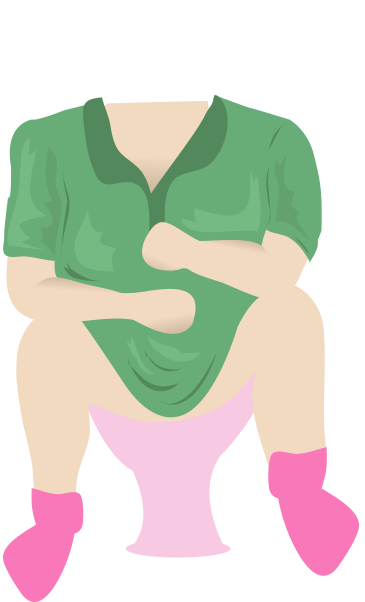
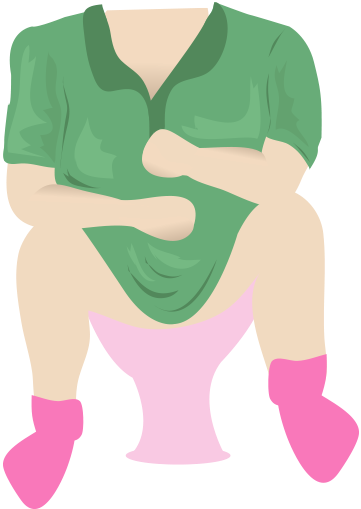
Changed sprites and position for poo man

diff --git a/source/scripts/states/PooScene.js b/source/scripts/states/PooScene.js
@@ -6,16 +6,7 @@ export default class PooScene extends ChaptersManager {
         this.game.load.image('toiletBarCorrect', 'assets/images/pooMan/toiletBarCorrect.png');
         this.game.load.image('toiletBarBad', 'assets/images/pooMan/toiletBarBad.png');
         this.game.load.image('toiletMarker', 'assets/images/pooMan/toiletMarker.png');
-        this.game.load.image('hair', 'assets/images/pooMan/02.png');
-        this.game.load.image('face', 'assets/images/pooMan/03.png');
-        this.game.load.image('eyelashes', 'assets/images/pooMan/04.png');
-        this.game.load.image('leftEye', 'assets/images/pooMan/05.png');
-        this.game.load.image('underEyeSkin', 'assets/images/pooMan/06.png');
-        this.game.load.image('rightEye', 'assets/images/pooMan/07.png');
-        this.game.load.image('leftEyeBrow', 'assets/images/pooMan/08.png');
-        this.game.load.image('rightEyeBrow', 'assets/images/pooMan/09.png');
-        this.game.load.image('moustache', 'assets/images/pooMan/10.png');
-        this.game.load.image('lips', 'assets/images/pooMan/11.png');
+        this.game.load.spritesheet('head', 'assets/images/pooMan/head.png', 165, 210);
         //this.game.load.spritesheet('explosion', 'assets/images/explosion.png', 46.25, 37.5, 62);
     }
 
@@ -31,110 +22,58 @@ export default class PooScene extends ChaptersManager {
     setPooMan() {
         this.game.add.sprite(0, 0, 'background');
         this.pooManGroup = this.game.add.group();
-        this.pooManGroup.create(0, 0, 'pooMan');
+        this.pooMan = this.game.add.sprite(0, 150, 'pooMan');
+        this.pooManGroup.add(this.pooMan);
 
         this.setNormalHead();
         this.setRedHead();
 
         this.pooManGroup.add(this.pooManHeadNormal);
         this.pooManGroup.add(this.pooManHeadRed);
+
+        this.pooManHeadRed.x = 155;
+        this.pooManHeadRed.y = 78;
+        this.pooManHeadNormal.x = 155;
+        this.pooManHeadNormal.y = 78;
+
+        var headHeightAboveBody = this.pooManHeadNormal.y - this.pooMan.y;
+        var groupHeight = headHeightAboveBody + this.pooMan.height;
+
+        this.pooManGroup.x = this.game.world.width / 2 - this.pooMan.width;
+        this.pooManGroup.y = this.game.world.height / 2 - groupHeight / 2;
     }
 
     setRedHead() {
         this.pooManHeadRed = this.game.add.group();
         this.pooManHeadRed.alpha = 0;
 
-        var face = this.game.add.sprite(0, 0, 'face');
-        face = this.setHeadSprites(face, true);
-        this.pooManHeadRed.add(face);
+        var faceOnly = this.game.add.sprite(0, 0, 'head', 0);
+        faceOnly = this.setHeadSprites(faceOnly, true);
+        this.pooManHeadRed.add(faceOnly);
 
-        var hair = this.game.add.sprite(0, 0, 'hair');
-        hair = this.setHeadSprites(hair, true);
-        this.pooManHeadRed.add(hair);
-
-        var leftEyeBrow = this.game.add.sprite(0, 0, 'leftEyeBrow');
-        leftEyeBrow = this.setHeadSprites(leftEyeBrow, false);
-        this.pooManHeadRed.add(leftEyeBrow);
-
-        var rightEyeBrow = this.game.add.sprite(0, 0, 'rightEyeBrow');
-        rightEyeBrow = this.setHeadSprites(rightEyeBrow, false);
-        this.pooManHeadRed.add(rightEyeBrow);
-
-        var eyelashes = this.game.add.sprite(0, 0, 'eyelashes');
-        eyelashes = this.setHeadSprites(eyelashes, false);
-        this.pooManHeadRed.add(eyelashes);
-
-        var leftEye = this.game.add.sprite(0, 0, 'leftEye');
-        leftEye = this.setHeadSprites(leftEye, false);
-        this.pooManHeadRed.add(leftEye);
-
-        var rightEye = this.game.add.sprite(0, 0, 'rightEye');
-        rightEye = this.setHeadSprites(rightEye, false);
-        this.pooManHeadRed.add(rightEye);
-
-        var underEyeSkin = this.game.add.sprite(0, 0, 'underEyeSkin');
-        underEyeSkin = this.setHeadSprites(underEyeSkin, true);
-        this.pooManHeadRed.add(underEyeSkin);
-
-        var moustache = this.game.add.sprite(0, 0, 'moustache');
-        moustache = this.setHeadSprites(moustache, true);
-        this.pooManHeadRed.add(moustache);
-
-        var lips = this.game.add.sprite(0, 0, 'lips');
-        lips = this.setHeadSprites(lips, true);
-        this.pooManHeadRed.add(lips);
+        var allHair = this.game.add.sprite(0, 0, 'head', 1);
+        allHair = this.setHeadSprites(allHair, false);
+        this.pooManHeadRed.add(allHair);
     }
 
     setNormalHead() {
         this.pooManHeadNormal = this.game.add.group();
 
-        var face = this.game.add.sprite(0, 0, 'face');
-        face = this.setHeadSprites(face, false);
-        this.pooManHeadNormal.add(face);
+        var faceOnly = this.game.add.sprite(/*this.pooMan.width / 2*/0, 0, 'head', 0);
+        faceOnly = this.setHeadSprites(faceOnly, false);
+        this.pooManHeadNormal.add(faceOnly);
 
-        var hair = this.game.add.sprite(0, 0, 'hair');
-        hair = this.setHeadSprites(hair, false);
-        this.pooManHeadNormal.add(hair);
-
-        var leftEyeBrow = this.game.add.sprite(0, 0, 'leftEyeBrow');
-        leftEyeBrow = this.setHeadSprites(leftEyeBrow, false);
-        this.pooManHeadNormal.add(leftEyeBrow);
-
-        var rightEyeBrow = this.game.add.sprite(0, 0, 'rightEyeBrow');
-        rightEyeBrow = this.setHeadSprites(rightEyeBrow, false);
-        this.pooManHeadNormal.add(rightEyeBrow);
-
-        var eyelashes = this.game.add.sprite(0, 0, 'eyelashes');
-        eyelashes = this.setHeadSprites(eyelashes, false);
-        this.pooManHeadNormal.add(eyelashes);
-
-        var leftEye = this.game.add.sprite(0, 0, 'leftEye');
-        leftEye = this.setHeadSprites(leftEye, false);
-        this.pooManHeadNormal.add(leftEye);
-
-        var rightEye = this.game.add.sprite(0, 0, 'rightEye');
-        rightEye = this.setHeadSprites(rightEye, false);
-        this.pooManHeadNormal.add(rightEye);
-
-        var underEyeSkin = this.game.add.sprite(0, 0, 'underEyeSkin');
-        underEyeSkin = this.setHeadSprites(underEyeSkin, false);
-        this.pooManHeadNormal.add(underEyeSkin);
-
-        var moustache = this.game.add.sprite(0, 0, 'moustache');
-        moustache = this.setHeadSprites(moustache, false);
-        this.pooManHeadNormal.add(moustache);
-
-        var lips = this.game.add.sprite(0, 0, 'lips');
-        lips = this.setHeadSprites(lips, false);
-        this.pooManHeadNormal.add(lips);
+        var allHair = this.game.add.sprite(/*this.pooMan.width / 2*/0, 0, 'head', 1);
+        allHair = this.setHeadSprites(allHair, false);
+        this.pooManHeadNormal.add(allHair);
     }
 
     setHeadSprites(sprite, shouldBeRed) {
         if (shouldBeRed) {
             sprite.tint = 0x990000;
         }
-        sprite.anchor.x = 0.5;
-        sprite.anchor.y = 0.5;
+        sprite./*scale.*/anchor.x = 0.5;
+        sprite./*scale.*/anchor.y = 0.5;
         return sprite;
     }
 

diff --git a/source/scripts/states/ChaptersManager.js b/source/scripts/states/ChaptersManager.js
@@ -29,7 +29,7 @@ export default class ChaptersManager extends Phaser.State{
 
 		if(this.game.global.currentChapterIndex + 1 < this.game.global.chaptersList.length){
 			this.game.global.currentChapterIndex++;
-			this.game.state.start(this.game.global.chaptersList[this.game.global.currentChapterIndex], true, false, this.game.global.currentChapterIndex);
+			this.game.state.start('PooScene', true, false, this.game.global.currentChapterIndex);
 		} else {
 			alert('last chapter');
 			this.gameOver();
